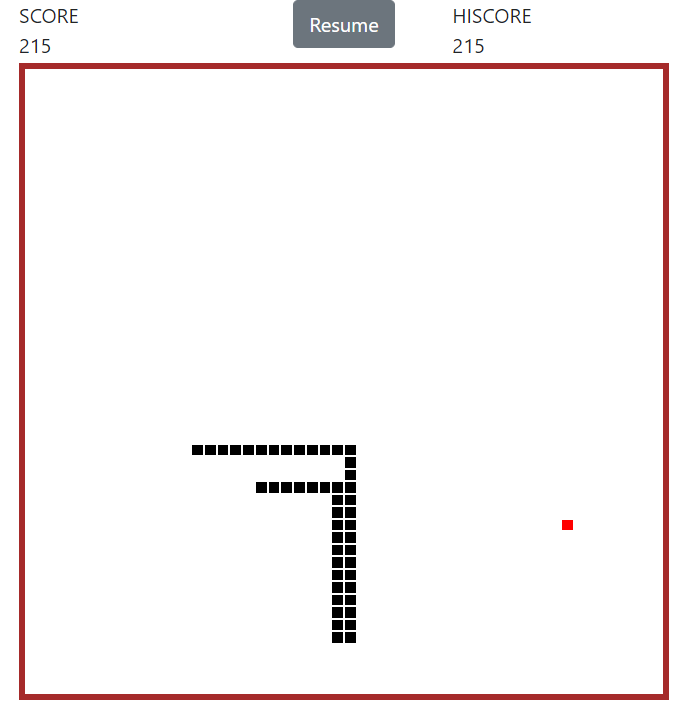
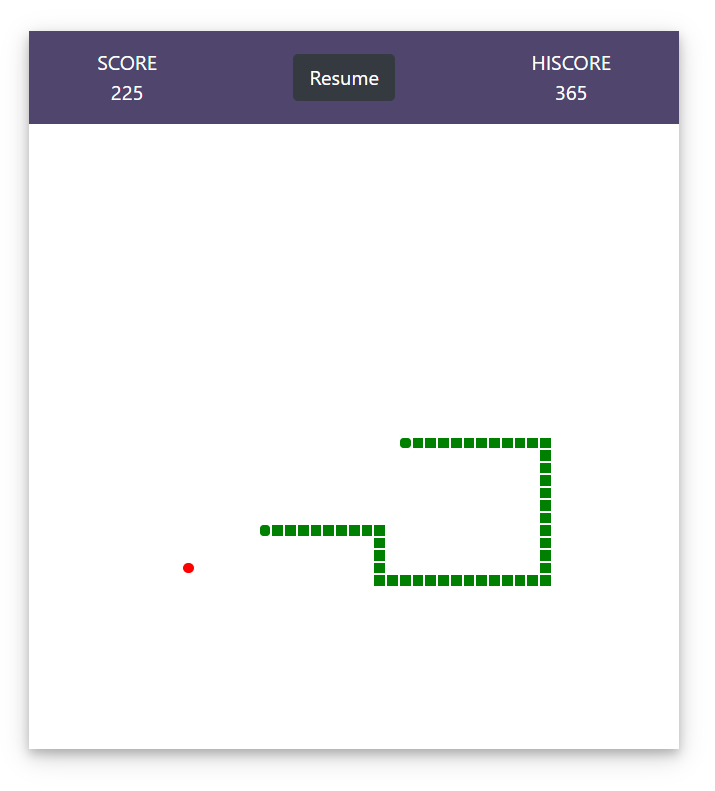
refactor: Beautify UI

diff --git a/styles.css b/styles.css
@@ -2,7 +2,6 @@
 	width: 520px;
 	height: 510px;
 	margin: auto;
-	border: 5px solid brown;
 }
 
 .snake-row {
@@ -20,29 +19,50 @@
 }
 
 .snake-body {
-	background-color: black;
+	background-color: green;
 }
 
 .food {
 	background-color: red;
+	box-sizing: border-box;
+	border: 1px solid white;
+	border-radius: 5px; 
 }
 
-#header {
-	height: 50px;
+#header { 
+	height: 75px;
 	margin: 0px;
+	background-color: #50456d;
+	color: white;
+	text-align: center;
 }
 
 #game {
 	width: 520px;
-	height: 550px;
-	margin: auto;	
+	height: 575px;
+	margin: 50px auto;	
+	box-shadow: 0 4px 8px 0 rgba(0, 0, 0, 0.2), 0 6px 20px 0 rgba(0, 0, 0, 0.19);
 }
 
 .col {
 	text-align: center;	
 }
 
-#hiscore-board {
-	align-items: right;
+.row {
+	margin: 0px;
+}
+
+.snake-head {
+	border-radius: 3.5px;	
+}
+
+.flex-container {
+	display: flex;
+	justify-content: space-around;
+	align-items: center;
+}
+
+.score-row {
+	justify-content: center;
 }
 

diff --git a/index.html b/index.html
@@ -10,17 +10,17 @@
 </head>
 <body>
 	<div id="game">
-		<div id="header" class="row">
-			<div id="score-board" class="col">
-				<div class="row">SCORE</div>
-				<div id="score" class="row"></div>
+		<div id="header" class="flex-container">
+			<div id="score-board" class="">
+				<div class="row score-row">SCORE</div>
+				<div id="score" class="row score-row"></div>
 			</div>
-			<div class="col">
-				<button id="pause" class="btn btn-secondary">Start</button>
+			<div class="">
+				<button id="pause" class="btn btn-dark">Start</button>
 			</div>
-			<div id="hiscore-board" class="col">
+			<div id="hiscore-board" class="">
 				<div class="row">HISCORE</div>
-				<div id="hiscore" class="row"></div>
+				<div id="hiscore" class="row score-row"></div>
 			</div>
 		</div>
 		<div id="board">

diff --git a/script.js b/script.js
@@ -95,6 +95,8 @@ function renderBoard() {
 	snakeCoords.forEach((coord, index) => {
 		const cell = getCell(coord.x, coord.y)
 		cell.classList.add('snake-body')
+		if(index == snakeCoords.length-1 || index == 0)
+			cell.classList.add('snake-head')
 	})	
 
 	// Mark the cell where the food exists
